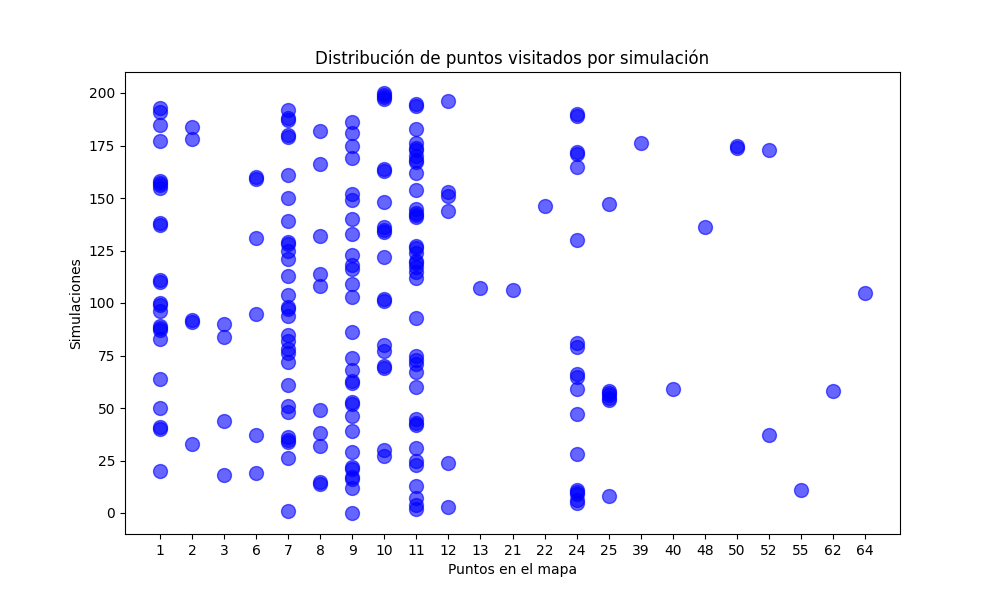
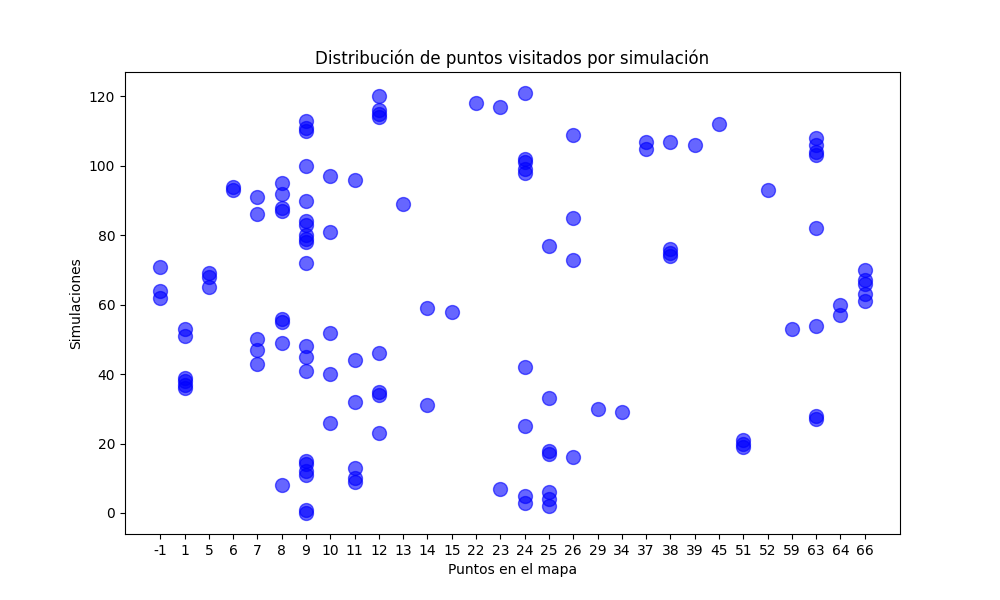
feat-ghosts

diff --git a/app/myapp/modules/module_2/module_2_main.py b/app/myapp/modules/module_2/module_2_main.py
@@ -51,9 +51,9 @@ class Simulation:
             exc.enviroment = environment
 
         # Ejecutar los procesos de movimiento
-        env.process(guide.move(0, 1, env, path))
+        env.process(guide.move(1,2, env, path))
         for exc in excursion_agents:
-            env.process(exc.move(0, 1, env, path))
+            env.process(exc.move(1,2, env, path))
 
         env.run()
 
@@ -151,7 +151,7 @@ class GuideAgent:
             print(f"{self.name} llegó a {ma.points[point2]} en el tiempo {self.enviroment.get_time_of_day()}")
 
         self.current_position = point2
-        if point2 != len(ma.points) - 1:
+        if point2 != len(ma.points) - 2:
             self.intentions = []
             self.update_beliefs()
             self.generate_desires()
@@ -239,7 +239,7 @@ class ExcursionAgent:
         similarity = cosine_similarity(desires_values, beliefs_values)
 
         self.simulation.cost += -(similarity)
-        if point2 != len(ma.points) - 1:
+        if point2 != len(ma.points) - 2:
             
             if self.enviroment.mark[point2] == "regroup":
                 self.enviroment.regroup(point2)

diff --git a/app/myapp/utils/map_utils.py b/app/myapp/utils/map_utils.py
@@ -19,6 +19,28 @@ class Map:
         
         self._create_map()
         
+        self.initial_ghost=Point(-1,0,0)
+        self.points[-1] = self.initial_ghost
+        self.paths[-1] = []
+        for p in self.starts:
+            self.paths[p].append(-1)
+            self.paths[-1].append(p)
+            
+            self.edges[(p,-1)] = Edge(p,-1,0)
+            self.edges[(-1,p)] = self.edges[(p,-1)]
+        self.starts=[-1]
+        
+        self.final_ghost=Point(-2,0,0)
+        self.points[-2] = self.final_ghost
+        self.paths[-2] = []
+        for p in self.exits:
+            self.paths[p].append(-2)
+            self.paths[-2].append(p)
+            
+            self.edges[(p,-2)] = Edge(p,-2,0)
+            self.edges[(-2,p)] = self.edges[(p,-2)]
+        self.exits=[-2]
+        
     def _create_map(self):
         self._create_points()
         self._create_paths()
